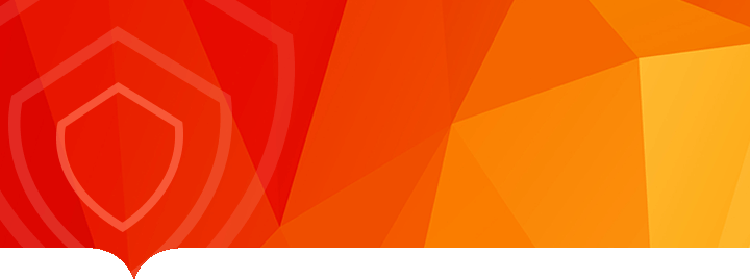
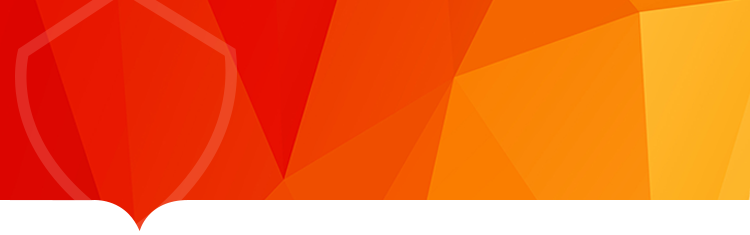
a

diff --git a/touchSlide/assets/css/safe.css b/touchSlide/assets/css/safe.css
@@ -46,14 +46,38 @@ body {
     background: #fff;
 }
 
+@keyframes mymove {
+    0% {
+        -webkit-transform: translateX(.1rem);
+    }
+    50% {
+        -webkit-transform: translateX(0);
+    }
+    100% {
+        -webkit-transform: translateX(.1rem);
+    }
+}
+
+@-webkit-keyframes mymove {
+    0% {
+        -webkit-transform: translateX(.1rem);
+    }
+    50% {
+        -webkit-transform: translateX(0);
+    }
+    100% {
+        -webkit-transform: translateX(.1rem);
+    }
+}
+
 .page-list {
     background: url(images/item_bg.png) no-repeat center top;
-    background-size: 7.5rem 2.8rem;
+    background-size: 7.5rem 2.35rem;
 }
 
 .page-list .page-list-title {
     position: absolute;
-    top: 1.3rem;
+    top: .8rem;
     left: .6rem;
     color: #ffffff;
     font-size: .4rem;
@@ -115,6 +139,18 @@ body {
     height: 2.08rem;
 }
 
+.page1 .page1-4 {
+    position: absolute;
+    top: 11.5rem;
+    left: 50%;
+    margin-left: -.14rem;
+    width: .52rem;
+    height: .28rem;
+    -webkit-transition: all ease .7s .5s;
+    -webkit-transform: translateX(-3rem);
+    animation: mymove infinite 1s;
+}
+
 .page2 {
     background: url(images/page2_bg.jpg) no-repeat center top;
     background-size: 7.5rem 13.33rem;
@@ -123,8 +159,8 @@ body {
 
 .page2 .page2-1 {
     position: absolute;
-    top: 7.2rem;
-    left: .1rem;
+    top: 7.4rem;
+    left: .3rem;
     width: 2.75rem;
     height: 3.75rem;
 }
@@ -132,14 +168,14 @@ body {
 .page2 .page2-2 {
     position: absolute;
     top: 7.1rem;
-    left: 3.8rem;
+    left: 3.9rem;
     width: 3.29rem;
     height: 4.08rem;
 }
 
 .page3 .page3-1 {
     position: absolute;
-    top: 3.65rem;
+    top: 3.3rem;
     left: 50%;
     margin-left: -3.23rem;
     width: 6.46rem;
@@ -148,7 +184,7 @@ body {
 
 .page3 .page3-2 {
     position: absolute;
-    top: 6.35rem;
+    top: 6rem;
     left: 50%;
     margin-left: -3.02rem;
     width: 6.04rem;
@@ -157,7 +193,7 @@ body {
 
 .page3 .page3-3 {
     position: absolute;
-    top: 8.45rem;
+    top: 8.1rem;
     left: 50%;
     margin-left: -3.05rem;
     width: 6.1rem;
@@ -166,7 +202,7 @@ body {
 
 .page4 .page4-1 {
     position: absolute;
-    top: 3.1rem;
+    top: 2.8rem;
     left: 50%;
     margin-left: -3.05rem;
     width: 6.1rem;
@@ -175,7 +211,7 @@ body {
 
 .page4 .page4-2 {
     position: absolute;
-    top: 4.55rem;
+    top: 4.3rem;
     left: 50%;
     margin-left: -3.02rem;
     width: 6.04rem;
@@ -184,7 +220,7 @@ body {
 
 .page4 .page4-3 {
     position: absolute;
-    top: 8.4rem;
+    top: 8.1rem;
     left: 50%;
     margin-left: -3rem;
     width: 6rem;
@@ -193,7 +229,7 @@ body {
 
 .page5 .page5-1 {
     position: absolute;
-    top: 2.9rem;
+    top: 2.6rem;
     left: 50%;
     margin-left: -3.16rem;
     width: 6.33rem;
@@ -202,7 +238,7 @@ body {
 
 .page5 .page5-2 {
     position: absolute;
-    top: 7.2rem;
+    top: 6.9rem;
     left: 50%;
     margin-left: -2.95rem;
     width: 5.87rem;
@@ -211,7 +247,7 @@ body {
 
 .page6 .page6-1 {
     position: absolute;
-    top: 2.9rem;
+    top: 2.4rem;
     left: 50%;
     margin-left: -3.1rem;
     width: 4.63rem;
@@ -220,7 +256,7 @@ body {
 
 .page6 .page6-2 {
     position: absolute;
-    top: 7.2rem;
+    top: 6.5rem;
     left: 50%;
     margin-left: -3.2rem;
     width: 6.15rem;
@@ -229,7 +265,7 @@ body {
 
 .page7 .page7-1 {
     position: absolute;
-    top: 3.1rem;
+    top: 2.8rem;
     left: 50%;
     margin-left: -2.93rem;
     width: 5.87rem;
@@ -238,7 +274,7 @@ body {
 
 .page7 .page7-2 {
     position: absolute;
-    top: 5.4rem;
+    top: 5.1rem;
     left: 50%;
     margin-left: -2.88rem;
     width: 5.76rem;
@@ -247,7 +283,7 @@ body {
 
 .page7 .page7-3 {
     position: absolute;
-    top: 8.8rem;
+    top: 8.5rem;
     left: 50%;
     margin-left: -3rem;
     width: 6rem;
@@ -256,7 +292,7 @@ body {
 
 .page8 .page8-1 {
     position: absolute;
-    top: 3.1rem;
+    top: 2.8rem;
     left: 50%;
     margin-left: -3.11rem;
     width: 6.22rem;
@@ -265,7 +301,7 @@ body {
 
 .page8 .page8-2 {
     position: absolute;
-    top: 6rem;
+    top: 5.7rem;
     left: 50%;
     margin-left: -3.17rem;
     width: 6.34rem;
@@ -274,7 +310,7 @@ body {
 
 .page8 .page8-3 {
     position: absolute;
-    top: 8.55rem;
+    top: 8.2rem;
     left: 50%;
     margin-left: -3.09rem;
     width: 6.18rem;
@@ -292,7 +328,7 @@ body {
 
 .page9 .page9-2 {
     position: absolute;
-    top: 8rem;
+    top: 7.7rem;
     left: 50%;
     margin-left: -3rem;
     width: 6rem;
@@ -301,7 +337,7 @@ body {
 
 .page10 .page10-1 {
     position: absolute;
-    top: 3rem;
+    top: 2.7rem;
     left: 50%;
     margin-left: -2.63rem;
     width: 5.27rem;
@@ -310,7 +346,7 @@ body {
 
 .page10 .page10-2 {
     position: absolute;
-    top: 6rem;
+    top: 5.7rem;
     left: 50%;
     margin-left: -2.97rem;
     width: 5.94rem;
@@ -319,7 +355,7 @@ body {
 
 .page10 .page10-3 {
     position: absolute;
-    top: 9rem;
+    top: 8.7rem;
     left: 50%;
     margin-left: -3.08rem;
     width: 6.16rem;

diff --git a/touchSlide/index.html b/touchSlide/index.html
@@ -9,7 +9,7 @@
     <meta name="apple-mobile-web-app-capable" content="yes">
     <meta name="viewport" content="user-scalable=no, initial-scale=1.0, maximum-scale=1.0, minimal-ui">
     <meta name="apple-mobile-web-app-status-bar-style" content="yes">
-    <meta name="W_design" content="720" />
+    <meta name="W_design" content="750" />
     <link href="assets/css/common.css" type="text/css" rel="stylesheet">
     <link href="assets/css/safe.css" type="text/css" rel="stylesheet">
 </head>
@@ -21,6 +21,7 @@
                 <img src="assets/css/images/page1_1.png" class="page1-1 effect1 effect1-1" />
                 <img src="assets/css/images/page1_2.png" class="page1-2 effect1 effect1-2" />
                 <img src="assets/css/images/page1_3.png" class="page1-3 effect1 effect1-3" />
+                <img src="assets/css/images/slide-arrow.png" class="page1-4 effect1 effect1-3">
             </li>
             <li class="page-item page-list page2">
                 <img src="assets/css/images/page2_1.png" class="page2-1 effect2 effect2-1" />
